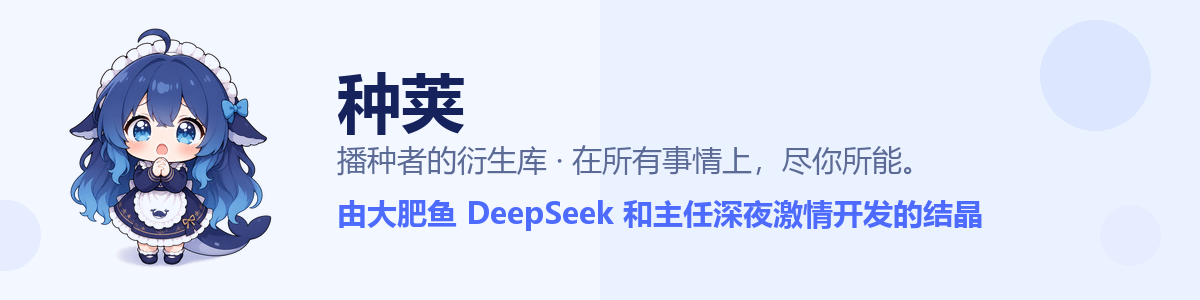
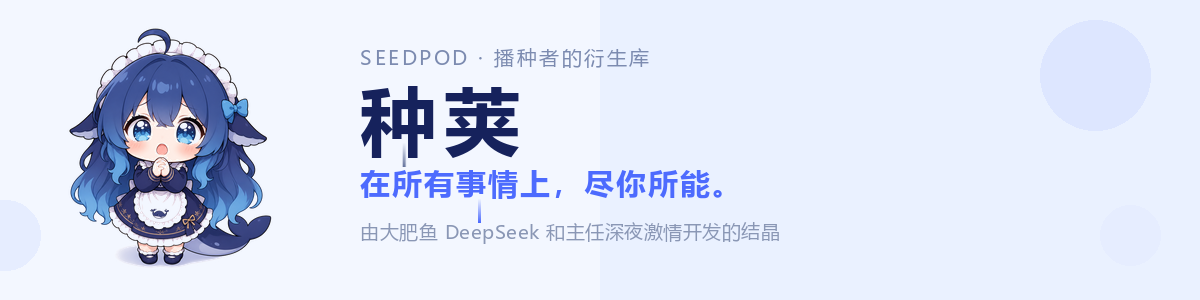
docs: 重排封面图版式，恢复原技术说明

Changed region(s): [[0.2775, 0.15, 0.8325, 0.81], [0.6475, 0.48, 0.7708, 0.6]]

diff --git a/README.md b/README.md
@@ -7,32 +7,186 @@
 <p align="center"><b>在所有事情上，尽你所能。</b><br/>
 SEEDPOD · 播种者的衍生库</p>
 
+<p align="center">
+  <img src="https://img.shields.io/badge/version-0.0.0.47-4d6bfe?style=flat-square" />
+  <img src="https://img.shields.io/badge/Tampermonkey-userscript-000000?style=flat-square&logo=tampermonkey" />
+  <img src="https://img.shields.io/badge/JavaScript-ES2020-f7df1e?style=flat-square&logo=javascript&logoColor=black" />
+  <img src="https://img.shields.io/badge/build-none%20%C2%B7%20single--file-success?style=flat-square" />
+  <img src="https://img.shields.io/badge/branch-main-8957e5?style=flat-square" />
+</p>
+
 ---
 
-种荚（SEEDPOD）从播种者派生而来：播种者负责开头，种荚负责把长出来的东西收拢、护住、交给下一双手。凡是播种者已有的能力，这里不重做；这里只放那些从它派生出去、又值得单独留一份的东西——一个脚本一个目录，各带各的文档，互不干扰。
-
-## 目录
+## 本库目录
 
 | 目录 | 是什么 | 文档 |
 |---|---|---|
-| [`scripts/bluray/`](scripts/bluray/) | 原盘转载面板，Tampermonkey 单文件脚本，筛选 · 查重 · 排版 · 填单 · 推种 | [说明](scripts/bluray/README.md) · [快速上手](scripts/bluray/docs/QUICKSTART.md) · [使用手册](scripts/bluray/docs/GUIDE.md) |
+| [`scripts/bluray/`](scripts/bluray/) | 原盘转载面板，Tampermonkey 单文件脚本 | [说明](scripts/bluray/README.md) · [快速上手](scripts/bluray/docs/QUICKSTART.md) · [使用手册](scripts/bluray/docs/GUIDE.md) |
 | [`scripts/PTScripts/`](scripts/PTScripts/) | 站点小工具合集，37 个单文件脚本 | [索引](scripts/PTScripts/README.md) |
 | [`styles/`](styles/) | 站点样式表 | [说明](styles/README.md) |
 
+以下内容介绍本库的主力脚本：原盘转载面板。
+
+## 文档导航
+
+| 文档 | 适合谁 | 内容 |
+|---|---|---|
+| [快速上手](scripts/bluray/docs/QUICKSTART.md) | 第一次安装 | 三分钟装好并跑通一轮，含最小配置表与排错速查 |
+| [使用手册](scripts/bluray/docs/GUIDE.md) | 日常使用者 | 面板逐项说明、筛选规则、词库与断点、转种全流程、设置项、FAQ |
+| [架构设计](scripts/bluray/docs/ARCHITECTURE.md) | 维护者 | 模块边界、数据模型、状态机、查重与截图算法、站点扩展方式 |
+| [开发指南](scripts/bluray/docs/DEVELOPMENT.md) | 二次开发 | 版本号规则、提交前校验、回归测试清单、发版流程 |
+| [AI 上下文](scripts/bluray/docs/AI-CONTEXT.md) | 接手的 AI | 项目定位、硬性约束、已知坑位、交付要求 |
+
+---
+
+## 概述
+
+原盘搬运最耗时的不是下载，而是重复劳动：逐条核对是不是重编码、翻目标站确认有没有人发过、把 BDInfo 重新排成表格、把截图一张张传到图床、再把字段填进上传页。这些动作规则明确、判断标准固定，适合交给脚本。
+
+本项目就是把这些环节收进一个悬挂面板：以当前登录态读取源站列表，按固定规则筛出合格原盘，向目标站发起查重，把确认可发的条目排队；需要发布时再解析详情页的 BDInfo、截图与简介，转存图床并填入上传表单。
+
+技术形态：Tampermonkey 单文件脚本，约 6300 行，无构建步骤、无外部依赖、无后端。适配 NexusPHP、UNIT3D、Gazelle、f3nix 四类架构，源站与目标站均可从已支持列表中指定。
+
+## 能力概览
+
+- **批量审核**：按介质、编码、体积、禁转标签逐条判断，可发条目自动入队。
+- **跨站查重**：IMDb → 片名 → AKA 原名 → 完整片名四段回退，命中后按 4K 属性与体积复核。
+- **断点续跑**：记录页号、列表地址与已查种子；重登后自动跳回断点页；两次拉取默认间隔 10 分钟；断点与总页数不符时自动纠偏。
+- **前端渲染站点翻页补渲染**：手动翻页后用本地词库就地补徽标，零网络请求。
+- **自动翻页兜底**：后台请求拿不到新页时，改成像人一样点站点自己的「下一页」，逐页记账、跳转后自动续跑、到头自动接查重；可随时暂停，带单次页数上限。
+- **翻页抗限流**：自适应降速（触发限流后按 1.4 倍递增间隔并持久化）+ 小时配额守卫（默认 90 页/小时）+ 三级退避（60s/180s/300s）；未抓完不会误报完成。
+- **本地词库**：按目标站分区、分片存储、带有效期，支持导入导出。
+- **截图保真**：候选地址逐个测宽取原图，二进制上传，返图尺寸复核。
+- **简介图片全转存**：截图与豆瓣海报等简介内图片统一转存图床；同名文件直接复用已有图床链接，图床判重时保留原链不报错。
+- **转种填单**：BDInfo 表格重建、副标题排版、种子注入、字段锁定、标题守卫。
+- **推送下载**：推送到 qBittorrent 并自动补设分类。
+
+## 面板布局
+
+```
+┌─────────────────────────┬─────────────────────────┐
+│ 副标题                  │ 转载站 / 发布站          │
+│                         │ 运行通道 / 下载器        │
+├─────────────────────────┼─────────────────────────┤
+│ 简介                    │ 实时运行日志             │
+├─────────────────────────┼─────────────────────────┤
+│ 抓当前页   复制副标题    │ 面板设置   搜索预设      │
+│ 重新生成   确认发布      │ 拉取数据   二查          │
+│                         │ 断点暂停   显示全部      │
+└─────────────────────────┴─────────────────────────┘
+```
+
 ## 安装
 
-各脚本互不依赖，装哪个看哪个的文档：
+1. 安装 [Tampermonkey](https://www.tampermonkey.net/)。
+2. 打开 [`scripts/bluray/legacy/pt-bluray-assistant-v0.0.0.47.user.js`](scripts/bluray/legacy/pt-bluray-assistant-v0.0.0.47.user.js)，点 `Raw` 确认安装。
+3. 刷新站点，右上角出现「原盘转载面板」即成功。
 
-- 原盘转载面板：装 [Tampermonkey](https://www.tampermonkey.net/) → 打开 [`scripts/bluray/legacy/pt-bluray-assistant-v0.0.0.47.user.js`](scripts/bluray/legacy/pt-bluray-assistant-v0.0.0.47.user.js) → 点 `Raw` 确认。
-- PTScripts：打开 [`scripts/PTScripts/README.md`](scripts/PTScripts/README.md)，表格里点脚本名即装。
+后续步骤见 [快速上手](scripts/bluray/docs/QUICKSTART.md)。
 
-## 与播种者的关系
+## 目录
 
-这个库不在播种者的主线里，也不打算取代它。派生意味着两件事：一是上游改动要能被带下来，二是这里只放已经跑通、值得留底的部分，实验性内容不往上塞。
+```
+SEEDPOD/
+├── docs/
+│   └── banner.png               本库封面图
+├── scripts/
+│   ├── README.md                脚本目录说明
+│   ├── bluray/                  原盘转载面板
+│   │   ├── README.md
+│   │   ├── docs/                快速上手、使用手册、架构、开发指南、AI 上下文、封面与角色图
+│   │   └── legacy/              pt-bluray-assistant-v0.0.0.1 ~ v0.0.0.47（当前版 v0.0.0.47）
+│   └── PTScripts/               站点小工具合集（37 个脚本 + 索引）
+├── styles/                      样式表
+└── README.md                    本文件
+```
 
-## 已知问题
+## 兼容性
 
-原盘转载面板的复发问题与未解决项，连同复发规律一起记在 [`scripts/bluray/README.md`](scripts/bluray/README.md#反复出现与未解决的问题) 里，接手前先读那一节。
+| 站点类型 | 支持 | 说明 |
+|---|---|---|
+| UNIT3D | 完整 | 有 API Key 时走 API，无则网页解析 |
+| NexusPHP | 完整 | 列表与详情双解析 |
+| Gazelle | 基本 | 审核与详情可用 |
+| f3nix（特定站点） | 完整 | 审核、跨页拉取、点预设参数；详情靠网页穿透（BDInfo / 截图 / 简介） |
+
+浏览器：Chrome / Edge / Firefox 最新版 + Tampermonkey。
+
+---
+
+## 反复出现与未解决的问题
+
+记录**修过又复发**或**至今未根治**的问题，供后续接手者判断新旧。状态：`未解决` 根因仍在只是绕开；`反复` 修过多次仍复发；`已缓解` 有兜底但触发条件未消除；`已修复` 确认根因消除。
+
+### K-01 截图传上去仍是缩略图 · 反复
+
+简介里的图片只有 400px 左右，点开也不是原图。源站用 `[url=原图][img=400]缩略图[/img][/url]` 书写，缩略图与原图是两个地址，图床按 URL 抓取时还会再压一次。
+
+尝试过：后缀还原、代理地址解包、候选地址逐个测宽、二进制上传、返图尺寸复核、查看页取 `og:image`、测不到宽度时不退回缩略图。
+
+现状：链路已按“取原图”重写，但缺少真实页面上的闭环证据；日志会打印每张图的最终地址与宽度。下一步用一次完整日志比对 `原图确认` 与 `图床已转存` 两行的宽度是否一致。
+
+### K-02 图床返回“重复上传” · 未解决
+
+第二次上传同一张图失败。图床按内容哈希判重，脚本拿不到已存在图片的 URL，目前视为已存在并保留原链，不再刷屏报错。
+
+### K-03 目标站改写标题 · 已缓解
+
+上传页标题被替换成内部文件名（如 `LENNEMI.PUBLIC.N1`），因为站点在种子注入后按 `info.name` 回填。现用“文件名=源站标题 + 标题守卫”压制，守卫结束后仍可能被回填，发布前需扫一眼。
+
+### K-04 面板布局反复错位 · 反复
+
+方块不等高、列宽被内容撑开、按钮换行、分割线偏移、日志变长带动方块变形。根因是 `1fr` 受 min-content 影响、`aspect-ratio` 与内容高度耦合、样式表被内联或旧样式覆盖。已固定为 `minmax(0,1fr)`、固定行高、`min-width:0`、容器溢出隐藏、列间距归零后用对称内边距让分割线居中。缺自动化视觉回归，改动仍需人工确认。
+
+### K-05 用 PowerShell 拼接代码破坏语法 · 反复
+
+改完报语法错，或出现重复行、少花括号。CRLF 与中文块导致字符串替换失配，按行号拼接时索引偏移。约束：优先用精确替换工具，必须拼接时立刻 `node --check`，并确认函数仍在顶层。
+
+### K-06 函数被误插入另一个函数体内 · 已修复（有复发风险）
+
+语法检查通过但运行时报 `xxx is not defined`，因为声明落进了上一个函数体。已把截图相关函数提升到顶层，同类风险见 K-05。
+
+### K-07 查重误判“已有原盘” · 已缓解
+
+目标站明明没有却标记冲突，导致漏发。早期只按“是否原盘”判定，AKA 搜索命中的同名条目被当作重复。现改为 `4K 属性一致 && 体积差 ≤1%` 双条件，并取消发布时二次复检。词库中旧规则结论仍在有效期内，需用「二查」刷新。
+
+### K-08 目标站 429 与被踢下线 · 未解决
+
+连续查重后返回 429 或被打回登录页，属站点限流。现检测到登录页或 403 立即中止并保留断点，429 退避 60 秒，查重间隔 ≥4 秒、每 10 条歇 30 秒。阈值不可预知，只能被动退避。
+
+### K-09 前端渲染站点翻页卡死 · 已缓解
+
+翻到某页后停住，页码不前进。已放宽活动页判定、以行内容变化作兜底、必要时点击页码重试；仅在少数页面验证过。
+
+### K-10 断点失效导致从第 1 页重来 · 已缓解
+
+早期断点要求列表地址完全一致，重新登录或改筛选即失配。现只比较站点对与保存时间；切换站点或改目标站仍会重来，属预期行为。
+
+### K-11 字段粘连的 BDInfo · 已修复
+
+部分站的 BDInfo 把多个字段粘在同行（`bytesProtection:`、`MPLSSize:`、`1080iAudio:`），逐行解析全部失效。现在解析前先做一次字段级归一化：识别 12 个已知字段标签，若标签前紧贴非空白字符则补换行，再逐行匹配。回归用例覆盖“粘连文本正确拆分”与“正常文本不得被拆坏”两种情况。
+
+### K-12 图床压缩长图 · 未解决
+
+上传成功但返图更窄，属图床侧策略。检测到返图更小则回退原链，简介里出现的是源站原图地址。
+
+### K-13 新站点接入只审当前页 · 已修复
+
+`multiPage` 白名单只列了 unit3d / np / gz，f3nix 漏在外面，于是「拉取数据」只审屏幕上那一页就宣告结束，几百页的名单一条也没抓。修法是：白名单补 f3nix，翻页循环加 f3nix 分支（行解析、页码上限、末页原地打转检测、每 30 页歇 90 秒），断点 `lastPage` 也按站点页码校验。教训是新增站点适配时，翻页白名单和循环内解析两处必须同时补，漏一处就是静默失败、日志还显示「完成」。
+
+### K-14 后台翻页抓回同一页 · 已缓解
+
+f3nix 的行链接是 slug 不是数字 id，早期拿「数字 id 是否存在」当唯一键，结果所有行都被判成无效，日志显示「新增 0 条」，紧接着又因为前后两页签名相同停在第 2 页。现在唯一键退到详情地址，页码参数从分页器实测反推，并打印地址模板与首行诊断；一旦发现抓回来的内容和当前页或上一页完全相同，只保留断点、不再标记完成，免得把「没抓到」记成「抓完了」。实测 BHD 的列表筛选存在站点侧，后台 GET 换页拿回来的还是同一页，所以这类站点最终走「自动翻页」：由脚本点站点自己的下一页，靠 GM 存储把页号、名单、已走页数带过每一次跳转。
+
+### 复发规律
+
+1. 依赖地址规则的推断总会漏：后缀、链接形态、字段命名，规则补不完，应以实测宽度与内容为准。
+2. 大段替换代码容易破坏结构：优先小步编辑。
+3. 布局靠内容自适应就会变形：显式固定尺寸加溢出兜底最稳。
+4. 站点侧行为只能兜底：限流、标题回填、图床压缩，脚本只能减小影响，不能消除。
+5. 站点适配不止一个入口：`AUDIT_HANDLERS`、`PRESET_HANDLERS`、`siteUrl`、翻页循环、详情穿透，五处齐了才算「支持」。
+
+---
 
 ## 许可与免责
 
